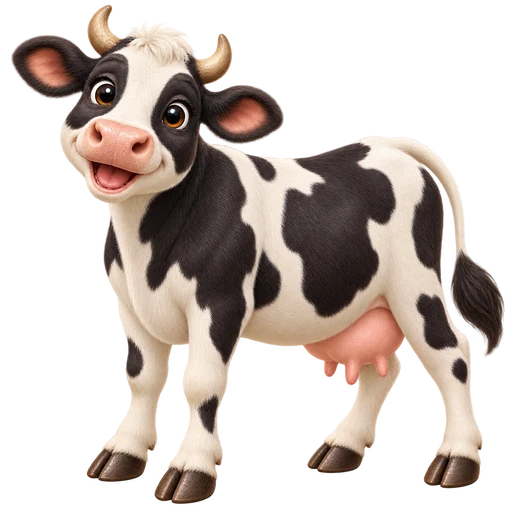
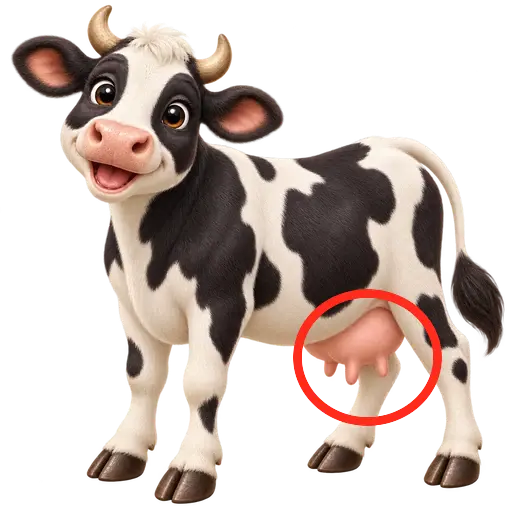
Opdater W, X og Y i bogstavlæring

Changed region(s): [[0.5625, 0.5625, 0.875, 0.8438]]

diff --git a/app.js b/app.js
@@ -50,7 +50,7 @@
     ["M","mus","m-mus.webp"],["N","næsehorn","n-naesehorn.webp"],["O","orm","o-orm.webp"],
     ["P","pingvin","p-pingvin.webp"],["Q","quokka","q-quokka.webp"],["R","ræv","r-raev.webp"],
     ["S","sæl","s-sael.webp"],["T","tiger","t-tiger.webp"],["U","ugle","u-ugle.webp"],
-    ["V","vaskebjørn","v-vaskebjoern.webp"],["W","wienerhund","w-wienerhund.webp"],["X","x-ray-fisk","x-xray-fisk.webp"],
+    ["V","vaskebjørn","v-vaskebjoern.webp"],["W","wok","w-wok.webp"],["X","xylofon","x-xylofon.webp"],
     ["Y","yver","y-yver.webp"],["Z","zebra","z-zebra.webp"],["Æ","æsel","ae-aesel.webp"],
     ["Ø","økse","oe-oekse.webp"],["Å","ål","aa-aal.webp"],
   ].map(([letter,word,file]) => ({ letter, word, image:`assets/letters/${file}` }));

diff --git a/index.html b/index.html
@@ -17,6 +17,6 @@
   <script src="https://cdn.jsdelivr.net/npm/@supabase/supabase-js@2" defer></script>
   <script src="supabase-config.js?v=66d7f7d7" defer></script>
   <script src="supabase-backend.js?v=20260831-live1" defer></script>
-  <script src="app.js?v=20260901-timer1" defer></script>
+  <script src="app.js?v=20260901-letters7" defer></script>
 </body>
 </html>
